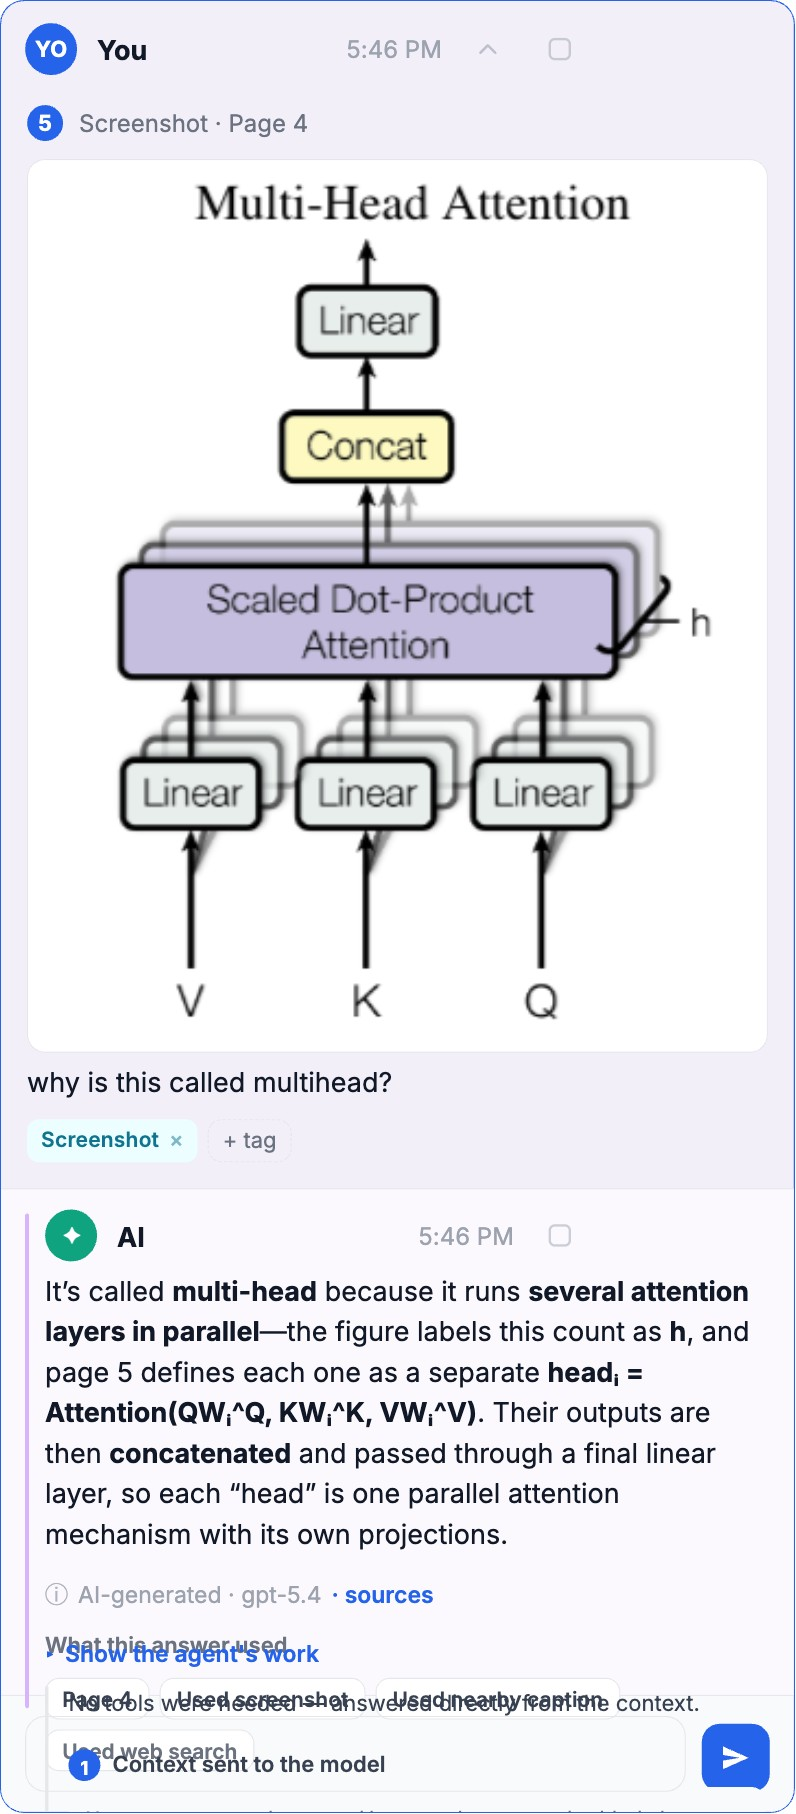
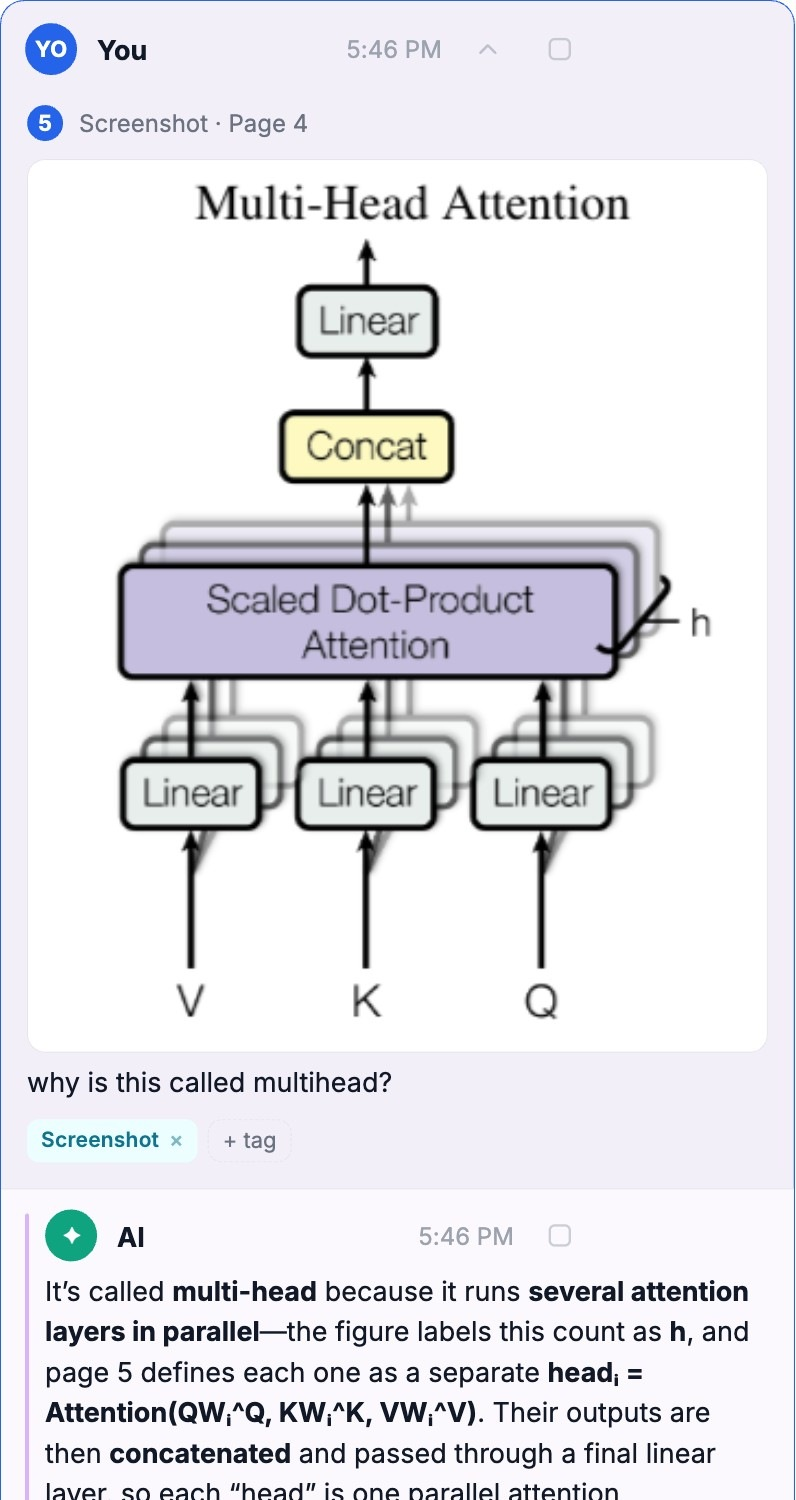
Fix garbled/oversized README screenshots
- Crop 07-screenshot-note.jpg (was garbled at bottom from html2canvas
  disclosure overlap) and size it down to 420px in the README
- Crop 05-ai-answer.jpg (was 3726px tall, whole agent trace)

diff --git a/README.md b/README.md
@@ -29,7 +29,7 @@ A connector line ties each note in the side panel to the exact spot it came from
 
 <div align="center"><img src="docs/screenshots/04-connector.jpg" alt="A note in the side panel joined by a connector line to the exact highlighted sentence on the PDF" width="820"></div>
 
-<div align="center"><img src="docs/screenshots/07-screenshot-note.jpg" alt="A note built from a figure captured out of the PDF, with an AI answer about it" width="820"></div>
+<div align="center"><img src="docs/screenshots/07-screenshot-note.jpg" alt="A note built from a figure captured out of the PDF, with an AI answer about it" width="420"></div>
 
 ## Why it's different
 
